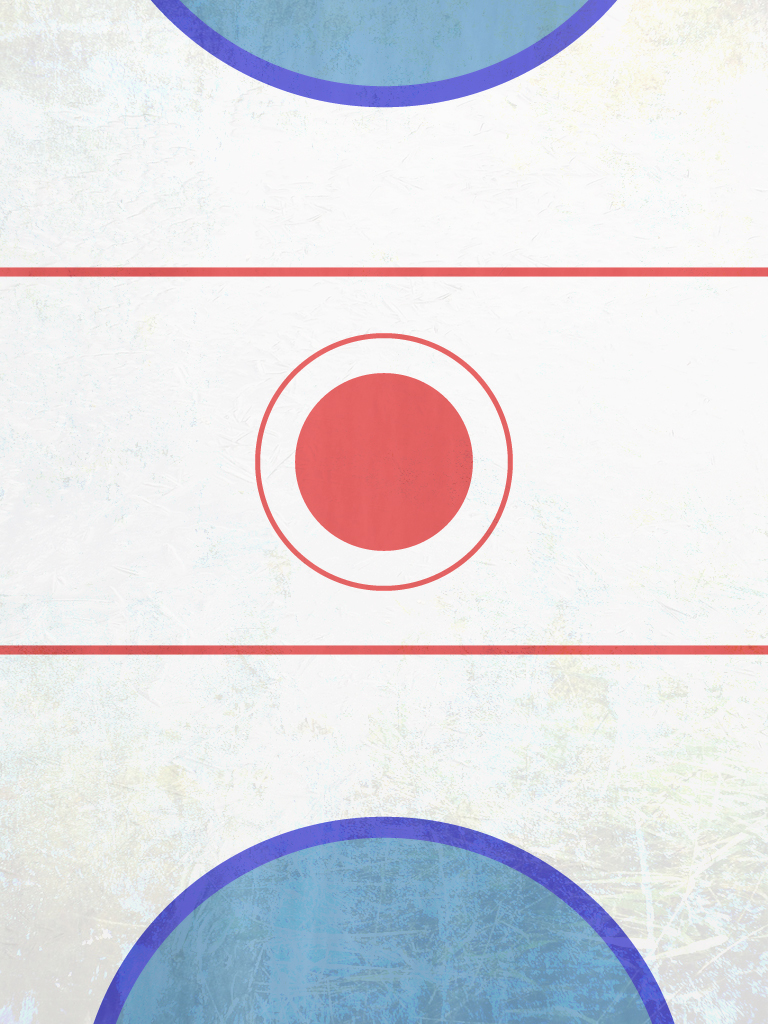
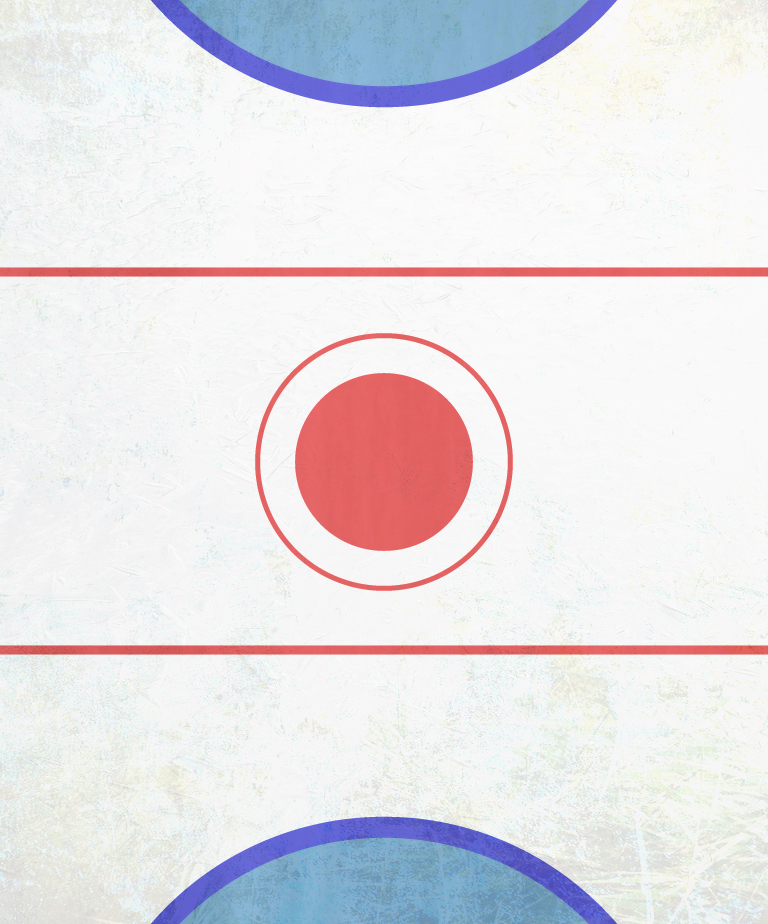
fixed ai, made bg + paddle + puck sizes dynamic

diff --git a/PongGame/src/PongGameApp.cpp b/PongGame/src/PongGameApp.cpp
@@ -60,9 +60,9 @@ void PongGame::setup()
 	hei = getWindowHeight();
 	//rad = 50.0f;
 	rad = 25.0f;
-	touchArea = Vec2f(getWindowWidth(), 100);
-	paddleRadius = 70;
-	goalWidth = wid * 0.25f;
+	touchArea = Vec2f(getWindowWidth(), 130);
+	paddleRadius = 50.0f;
+	goalWidth = wid * 0.20f;
 	goalHeight = 8;
 	goalBoxLeft = goalWidth + goalHeight;
 	goalBoxRight = wid - goalWidth - goalHeight;
@@ -114,9 +114,15 @@ void PongGame::update()
 
 void PongGame::aiPaddle()
 {	
-	engageThresh = 1 - ( pos.y / (hei - 100) );
+	engageThresh = 1 - ( pos.y / (hei - touchArea.y) );
 	aiPaddleLast = aiPaddleCenter.x;
-	aiPaddleCenter.x -= (aiPaddleCenter.x - pos.x) * easingFactor * engageThresh;
+	float puckX = pos.x;
+	if(puckX < goalBoxLeft){
+		puckX = goalBoxLeft;
+	} else if (puckX > goalBoxRight) {
+		puckX = goalBoxRight;
+	}
+	aiPaddleCenter.x -= (aiPaddleCenter.x - puckX) * easingFactor * engageThresh;
 }
 
 void PongGame::collisions(Vec2f paddle, float paddleLast_, bool is_ai)
@@ -136,10 +142,9 @@ void PongGame::collisions(Vec2f paddle, float paddleLast_, bool is_ai)
 	if( distanceSQ <= minDistanceSQ && colliding == false ){
 		colliding = true;
 		Vec2f collisionDir = Vec2f(paddle - vel);
-		
-		if(abs(collisionDir.x / collisionDir.y) > 4){
-			collisionDir.y = abs(collisionDir.x) / -4;
-		}
+		Vec2f touchAngle = Vec2f(pos - paddle);
+		touchAngle.normalize();
+		pos = paddle + ( (paddleRadius + rad) * touchAngle );
 		
 		collisionDir.normalize();
 		
@@ -180,9 +185,9 @@ void PongGame::boundaries(){
 		audio::Output::play(sound1);
 	}
 	
-	if(pos.y - rad <= 0 + goalHeight && (pos.x < goalBoxLeft || pos.x > goalBoxRight)){
+	if(pos.y <= 0 + goalHeight + rad && (pos.x < goalBoxLeft || pos.x > goalBoxRight)){
 		vel.y *= -0.65f;
-		pos.y = 0 + rad;
+		pos.y = 0 + rad + goalHeight;
 		audio::Output::play(sound1);
 	} else if(pos.y + rad >= hei - touchArea.y - goalHeight && (pos.x < goalBoxLeft || pos.x > goalBoxRight)){
 		vel.y *= -0.65f;
@@ -228,9 +233,15 @@ void PongGame::mouseDown( MouseEvent event )
 	if(event.getY() > hei - touchArea.y){
 		paddleLast = paddleCenter.x;
 		paddleCenter.x = event.getPos().x;
+		if (paddleCenter.x < paddleRadius) {
+			paddleCenter.x = paddleRadius;
+		} else if (paddleCenter.x > wid - paddleRadius) {
+			paddleCenter.x = wid - paddleRadius;
+		}
 		if(serve && userServe){
 			pos.x = paddleCenter.x;
 		}
+		
 	} else if(serve){
 		serve = false;
 	}
@@ -241,6 +252,11 @@ void PongGame::mouseDrag( MouseEvent event )
 	if(event.getY() > hei - touchArea.y){
 		paddleLast = paddleCenter.x;
 		paddleCenter.x = event.getPos().x;
+		if (paddleCenter.x < paddleRadius) {
+			paddleCenter.x = paddleRadius;
+		} else if (paddleCenter.x > wid - paddleRadius) {
+			paddleCenter.x = wid - paddleRadius;
+		}
 		if(serve && userServe){
 			pos.x = paddleCenter.x;
 		}
@@ -271,7 +287,7 @@ void PongGame::draw()
 	glLightfv(GL_LIGHT1, GL_AMBIENT, light_RGB);
 	
 	//draw background
-	gl::draw( texture3, getWindowBounds() );
+	gl::draw( texture3, Rectf(0,0,wid, hei - touchArea.y) );
 	
 	glEnable( GL_LIGHTING );
 	glEnable( GL_LIGHT2 );
@@ -282,8 +298,8 @@ void PongGame::draw()
 	glEnable(GL_TEXTURE_2D);
 	glEnable( GL_DEPTH_TEST );
 	paddleTexture.bind();
-	drawCube(Vec3f(paddleCenter.x, paddleCenter.y, 0), Vec3f(140, 140, 0.1f) );
-	drawCube(Vec3f(aiPaddleCenter.x, aiPaddleCenter.y, 0), Vec3f(140, 140, 0.1f) );
+	drawCube(Vec3f(paddleCenter.x, paddleCenter.y, 0), Vec3f(paddleRadius * 2, paddleRadius * 2, 0.1f) );
+	drawCube(Vec3f(aiPaddleCenter.x, aiPaddleCenter.y, 0), Vec3f(paddleRadius * 2, paddleRadius * 2, 0.1f) );
 	
 	//draw puck
 	puckTexture.bind();
